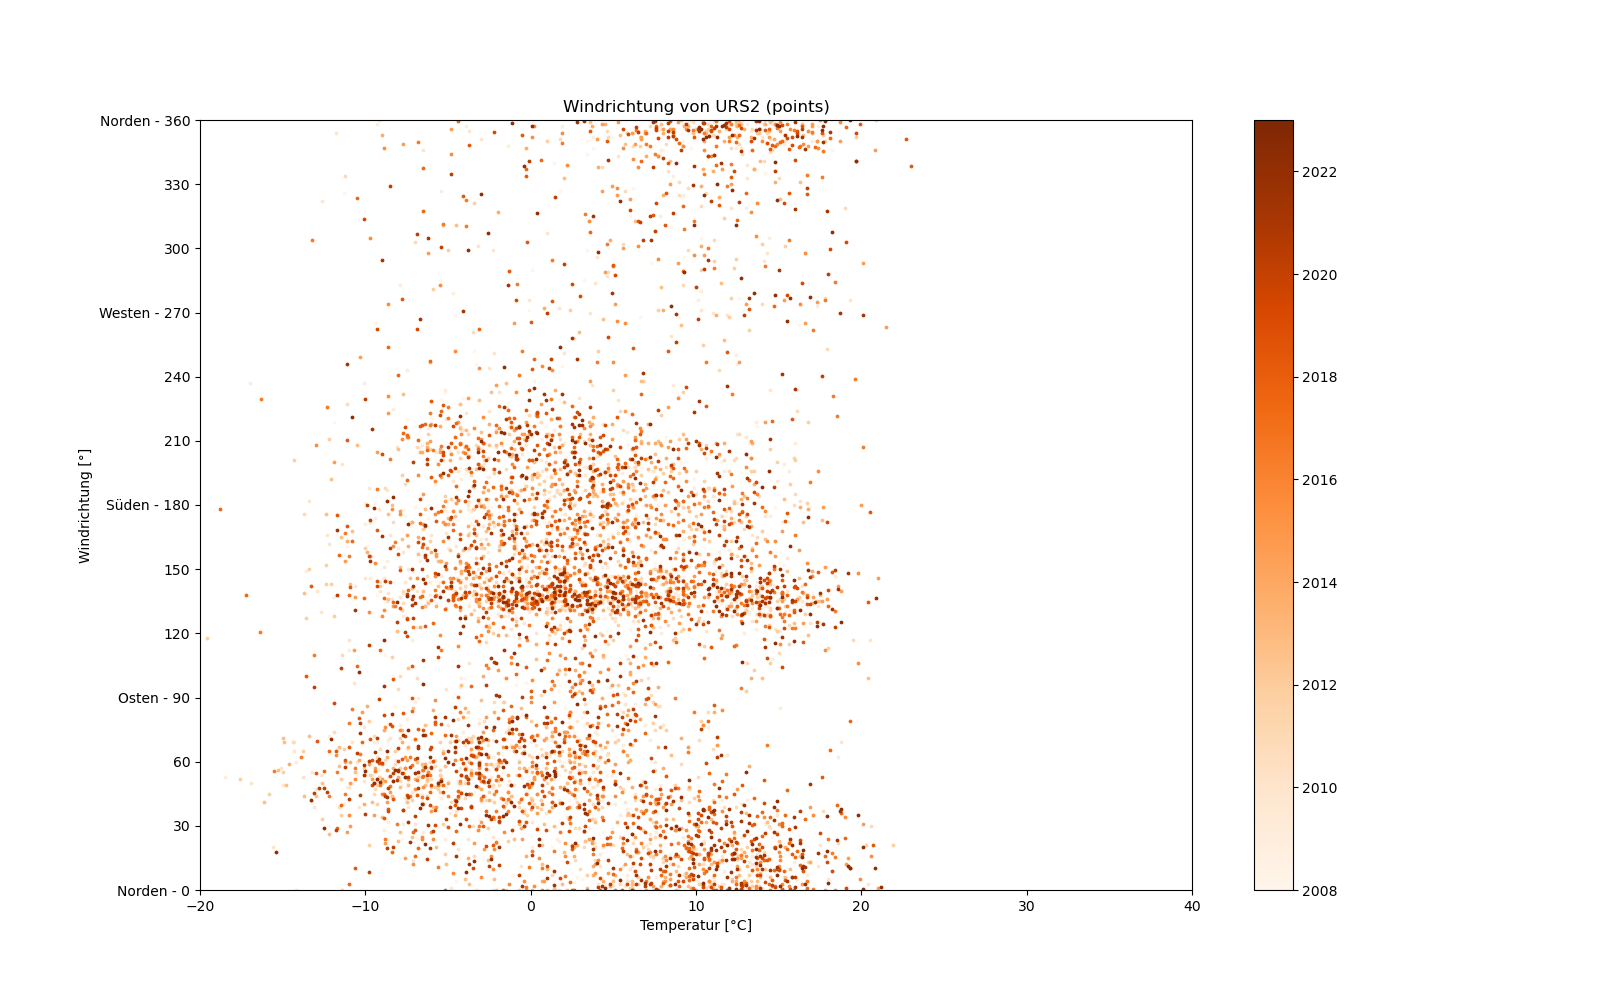
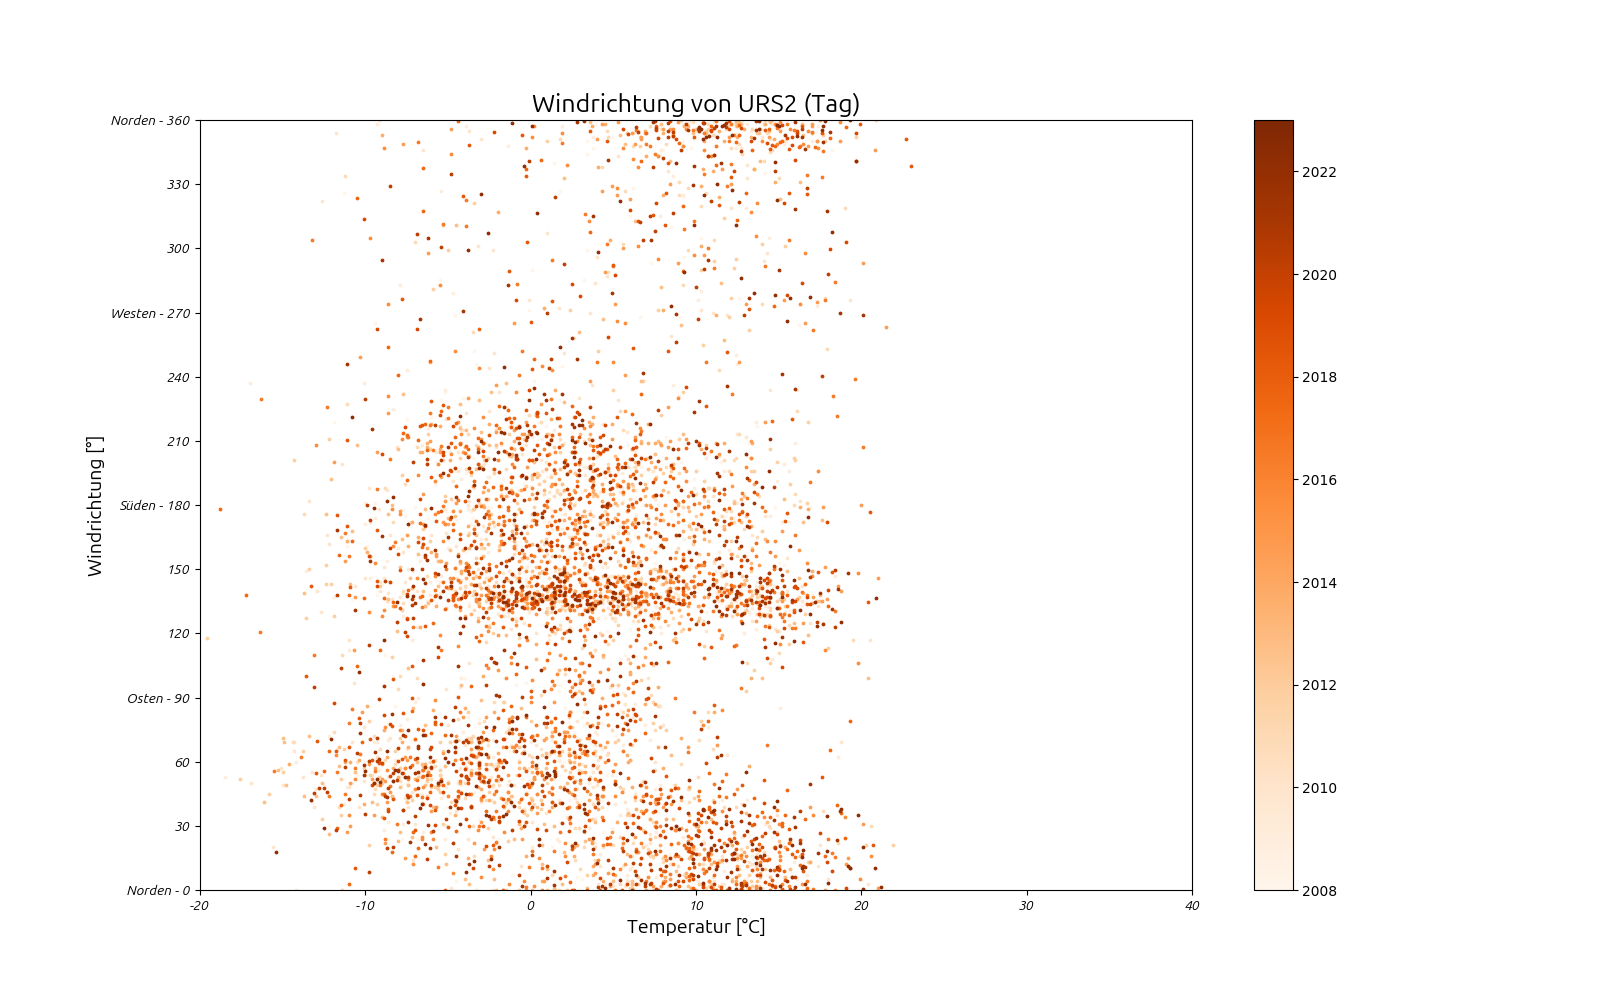
- added trend line with labeling

diff --git a/main.py b/main.py
@@ -8,14 +8,21 @@ coded by:           Flyingfoxi
 import csv
 import os
 from datetime import datetime, timedelta
-from typing import Dict, List
+from typing import Dict, Iterable, List
 
 import matplotlib.pyplot as plt
+import numpy as np
 from matplotlib import colormaps
 from pydantic import BaseModel
 
 month_length = [31, 28, 31, 30, 31, 30, 31, 31, 30, 31, 30, 31]
 year_length = [366, 365, 365, 365, 366, 365, 365, 365, 366, 365, 365, 365, 366, 365, 365, 365]
+
+font_header = {"style": "normal", "name": "Ubuntu", "size": 18}
+font_labeling = {"style": "normal", "name": "Ubuntu", "size": 14}
+font_ticks = {"style": "italic", "name": "Ubuntu", "size": 10}
+
+__all__ = ["Array", "plotArray", "getArray"]
 
 
 class Array(BaseModel):
@@ -25,6 +32,7 @@ class Array(BaseModel):
     columns: List[str]
     colormap: str = "Blues"
     plot_typ: str = "stacked"
+    display_typ: str
 
 
 def loadCSV(file, column):
@@ -82,10 +90,12 @@ def _getWeekBasedArray(file, column, weekly_average=True) -> Array:
                 value = array_data[year][week][3]
                 array_data[year][week][3] = value["value"] / value["count"]
 
-    _array = Array(typ="woche",
+    _array = Array(typ="week",
                    name=file.split("/")[-1].split(".")[0],
                    columns=["measure_date", column],
-                   data=array_data)
+                   data=array_data,
+                   display_typ="Woche")
+
     return _array
 
 
@@ -118,10 +128,11 @@ def _getDayBasedArray(file, column, month_average=False) -> Array:
                 value = array_data[year][month][int(month_length[month - 1] / 2)]
                 array_data[year][month][int(month_length[month - 1] / 2)] = value["value"] / value["count"]
 
-    _array = Array(typ=("monat" if month_average else "tag"),
+    _array = Array(typ=("month" if month_average else "day"),
                    name=file.split("/")[-1].split(".")[0],
                    columns=["measure_date", column],
-                   data=array_data)
+                   data=array_data,
+                   display_typ=("monat" if month_average else "tag").capitalize())
     return _array
 
 
@@ -152,7 +163,8 @@ def _getPointBasedArray(file: str, key, value) -> Array:
     _array = Array(typ="points",
                    name=file.split("/")[-1].split(".")[0],
                    columns=[key, value],
-                   data=array_data)
+                   data=array_data,
+                   display_typ="Tag")
     return _array
 
 
@@ -188,13 +200,13 @@ def _plotStackingArray(array_data: Array, colormap: str):
         for mi, month in data.items():
             for di, day in month.items():
                 try:
-                    if mi == int(len(data)) and array_data.typ == "monat":
+                    if mi == int(len(data)) and array_data.typ == "month":
                         last["y"].append(day)
                         last["x"].append(sum(month_length[:mi - 1]) + di - year_length[year - 2008])
                     y_map.append(day)
-                    if array_data.typ in ["monat", "tag"]:
+                    if array_data.typ in ["month", "day"]:
                         x_map.append(sum(month_length[:mi - 1]) + di)
-                    elif array_data.typ == "woche":
+                    elif array_data.typ == "week":
                         x_map.append((mi - 1) * 7 + di)
                 except ValueError as ex:
                     print(ex)
@@ -205,9 +217,9 @@ def _plotStackingArray(array_data: Array, colormap: str):
                 for di, day in month.items():
                     try:
                         y_map.append(day)
-                        if array_data.typ in ["monat", "tag"]:
+                        if array_data.typ in ["month", "day"]:
                             x_map.append(sum(month_length[:mi - 1]) + di + year_length[year - 2008])
-                        elif array_data.typ == "woche":
+                        elif array_data.typ == "week":
                             x_map.append((mi - 1) * 7 + di + year_length[year - 2008])
                     except ValueError as ex:
                         print(ex)
@@ -231,7 +243,7 @@ def _plotLinearArray(array_data: Array, colormap):
         for mi, month in year.items():
             for di, day in month.items():
                 y_map.append(day)
-                if array_data.typ in ("monat", "tag"):
+                if array_data.typ in ("month", "day"):
                     x_map.append(sum(year_length[:yi - 2008]) + sum(month_length[:mi - 1]) + di)
                 else:
                     x_map.append(sum(year_length[:yi - 2008]) + (mi - 1) * 7 + di)
@@ -244,7 +256,18 @@ def _plotLinearArray(array_data: Array, colormap):
 
     _xy_labeling(array_data, ax)
 
+    x = np.array(x_map)
+    y = np.array(y_map)
+
+    slope, intercept = np.polyfit(x, y, 1)
+    trend_line = slope * x + intercept
+
     plt.plot(x_map, y_map, color=color)
+    plt.plot(x_map, trend_line, color='darkred')
+
+    ax.text(ax.get_xlim()[1] * 0.99, ax.get_ylim()[1] * 0.972, f"Equation of the trend line: y = {slope:.5f}x + {intercept:.2f}", style='italic',
+            fontsize=10, bbox={"facecolor": "lightgrey", "alpha": 0.5, "pad": 5}, ha="right", va="top")
+
     return plt
 
 
@@ -263,37 +286,38 @@ def plotArray(array_data: Array, colormap: str, plot_typ: str = "stacked") -> pl
         return _plotLinearArray(array_data, colormap)
 
 
-def getArray(file: str, value: str, key: str = "measure_date", typ: str = "tag") -> Array:
+def getArray(file: str, value: str, key: str = "measure_date", typ: str = "day") -> Array:
     if key != "measure_date":
         return _getPointBasedArray(file, key=key, value=value)
 
-    if typ == "woche":
+    if typ == "week":
         return _getWeekBasedArray(file, value)
     else:
-        return _getDayBasedArray(file, value, bool(typ == "monat"))
+        return _getDayBasedArray(file, value, bool(typ == "month"))
 
 
-def _xy_labeling(array_data: Array, ax) -> None:
+def _xy_labeling(array_data: Array, ax: plt.Axes) -> None:
     for i, typ in enumerate("xy"):
 
-        enable_ticks = False
+        enable_ticks = True
         ticks = []
-        tick_labels = []
-        lim = ()
+        tick_labels: Iterable | None = None
         label = ""
 
         match array_data.columns[i]:
             case "HS":
-                plt.title("Schneehöhe von " + array_data.name + f" ({array_data.typ})")
+                plt.title("Schneehöhe von " + array_data.name + f" ({array_data.display_typ})", fontdict=font_header)
                 label = "Schneehöhe [cm]"
                 lim = (0, 350)
+                ticks = [i for i in range(0, 400, 50)]
             case "TA_30MIN_MEAN":
-                plt.title("Temperatur von " + array_data.name + f" ({array_data.typ})")
+                plt.title("Temperatur von " + array_data.name + f" ({array_data.display_typ})", fontdict=font_header)
                 label = "Temperatur [°C]"
                 lim = (-20, 40)
+                ticks = [i for i in range(-20, 50, 10)]
             case "DW_30MIN_MEAN":
                 enable_ticks = True
-                plt.title("Windrichtung von " + array_data.name + f" ({array_data.typ})")
+                plt.title("Windrichtung von " + array_data.name + f" ({array_data.display_typ})", fontdict=font_header)
                 label = "Windrichtung [°]"
                 ticks = [int(i) for i in range(0, 361, 30)]
                 tick_labels = [f"Norden - {i}" if i == 0 or i == 360 else
@@ -303,16 +327,20 @@ def _xy_labeling(array_data: Array, ax) -> None:
                                f"{i}" for i in ticks]
                 lim = (0, 360)
             case "rre024i0":
-                plt.title("Niederschlagsmenge von " + array_data.name + f" ({array_data.typ})")
-                label = "Niederschlagsmenge [mm/24h]"
-                if array_data.typ == "tag":
+                plt.title("Niederschlagsmenge von " + array_data.name + f" ({array_data.display_typ})", fontdict=font_header)
+                label = "Niederschlagsmenge [mm/Tag]"
+                if array_data.typ == "day":
                     lim = (0, 1200)
-                elif array_data.typ == "woche":
+                    ticks = [i for i in range(0, 1300, 100)]
+                elif array_data.typ == "week":
                     lim = (0, 350)
-                elif array_data.typ == "monat":
+                    ticks = [i for i in range(0, 400, 50)]
+                elif array_data.typ == "month":
                     lim = (0, 120)
+                    ticks = [i for i in range(0, 130, 10)]
                 else:
                     lim = (0, 500)
+                    ticks = [i for i in range(0, 501, 75)]
 
             case "measure_date":
                 enable_ticks = True
@@ -323,7 +351,11 @@ def _xy_labeling(array_data: Array, ax) -> None:
                     lim = (0, 366)
 
                     sm = plt.cm.ScalarMappable(cmap=array_data.colormap, norm=plt.Normalize(vmin=min(list(array_data.data.keys())), vmax=max(list(array_data.data.keys()))))
-                    plt.colorbar(sm, ax=ax)
+                    cb = plt.colorbar(sm, ax=ax)
+                    cb.ax.set_yticks((cmap_ticks := [i for i in range(2008, 2024, 1)]))
+                    cb.ax.set_yticklabels([str(i) for i in cmap_ticks], fontdict=font_ticks)
+
+
                 else:
                     tick_labels = [str(i) for i in range(2008, 2025)]
                     ticks = [sum(year_length[:i]) for i in range(len(year_length) + 1)]
@@ -334,9 +366,11 @@ def _xy_labeling(array_data: Array, ax) -> None:
 
         if enable_ticks:
             getattr(ax, "set_" + typ + "ticks")(ticks)
-            getattr(ax, "set_" + typ + "ticklabels")(tick_labels)
+            if tick_labels is None:
+                tick_labels = [str(i) for i in ticks]
+            getattr(ax, "set_" + typ + "ticklabels")(tick_labels, fontdict=font_ticks)
         getattr(ax, "set_" + typ + "lim")(lim)
-        getattr(ax, "set_" + typ + "label")(label)
+        getattr(ax, "set_" + typ + "label")(label, fontdict=font_labeling)
 
 
 def create_dir():
@@ -349,7 +383,7 @@ def create_dir():
         for field in ("HS", "TA_30MIN_MEAN", "DW_30MIN_MEAN", "rre024i0"):
             if not os.path.exists(os.path.join(path, typ, field)):
                 os.mkdir(os.path.join(path, typ, field))
-            for type_ in ("tag", "woche", "monat"):
+            for type_ in ("day", "week", "month"):
                 if not os.path.exists(os.path.join(path, typ, field, type_)):
                     os.mkdir(os.path.join(path, typ, field, type_))
 
@@ -373,7 +407,7 @@ def main():
             if file == "VAL2.csv" and field == "rre024i0":
                 continue
 
-            for type_ in ("tag", "woche", "monat"):
+            for type_ in ("day", "week", "month"):
                 _array = getArray(dir_ + file, field, typ=type_)
                 _colormap = ("Blues" if field == "HS" else "Greens" if field == "TA_30MIN_MEAN" else "Oranges" if field == "DW_30MIN_MEAN" else "Reds")
 
